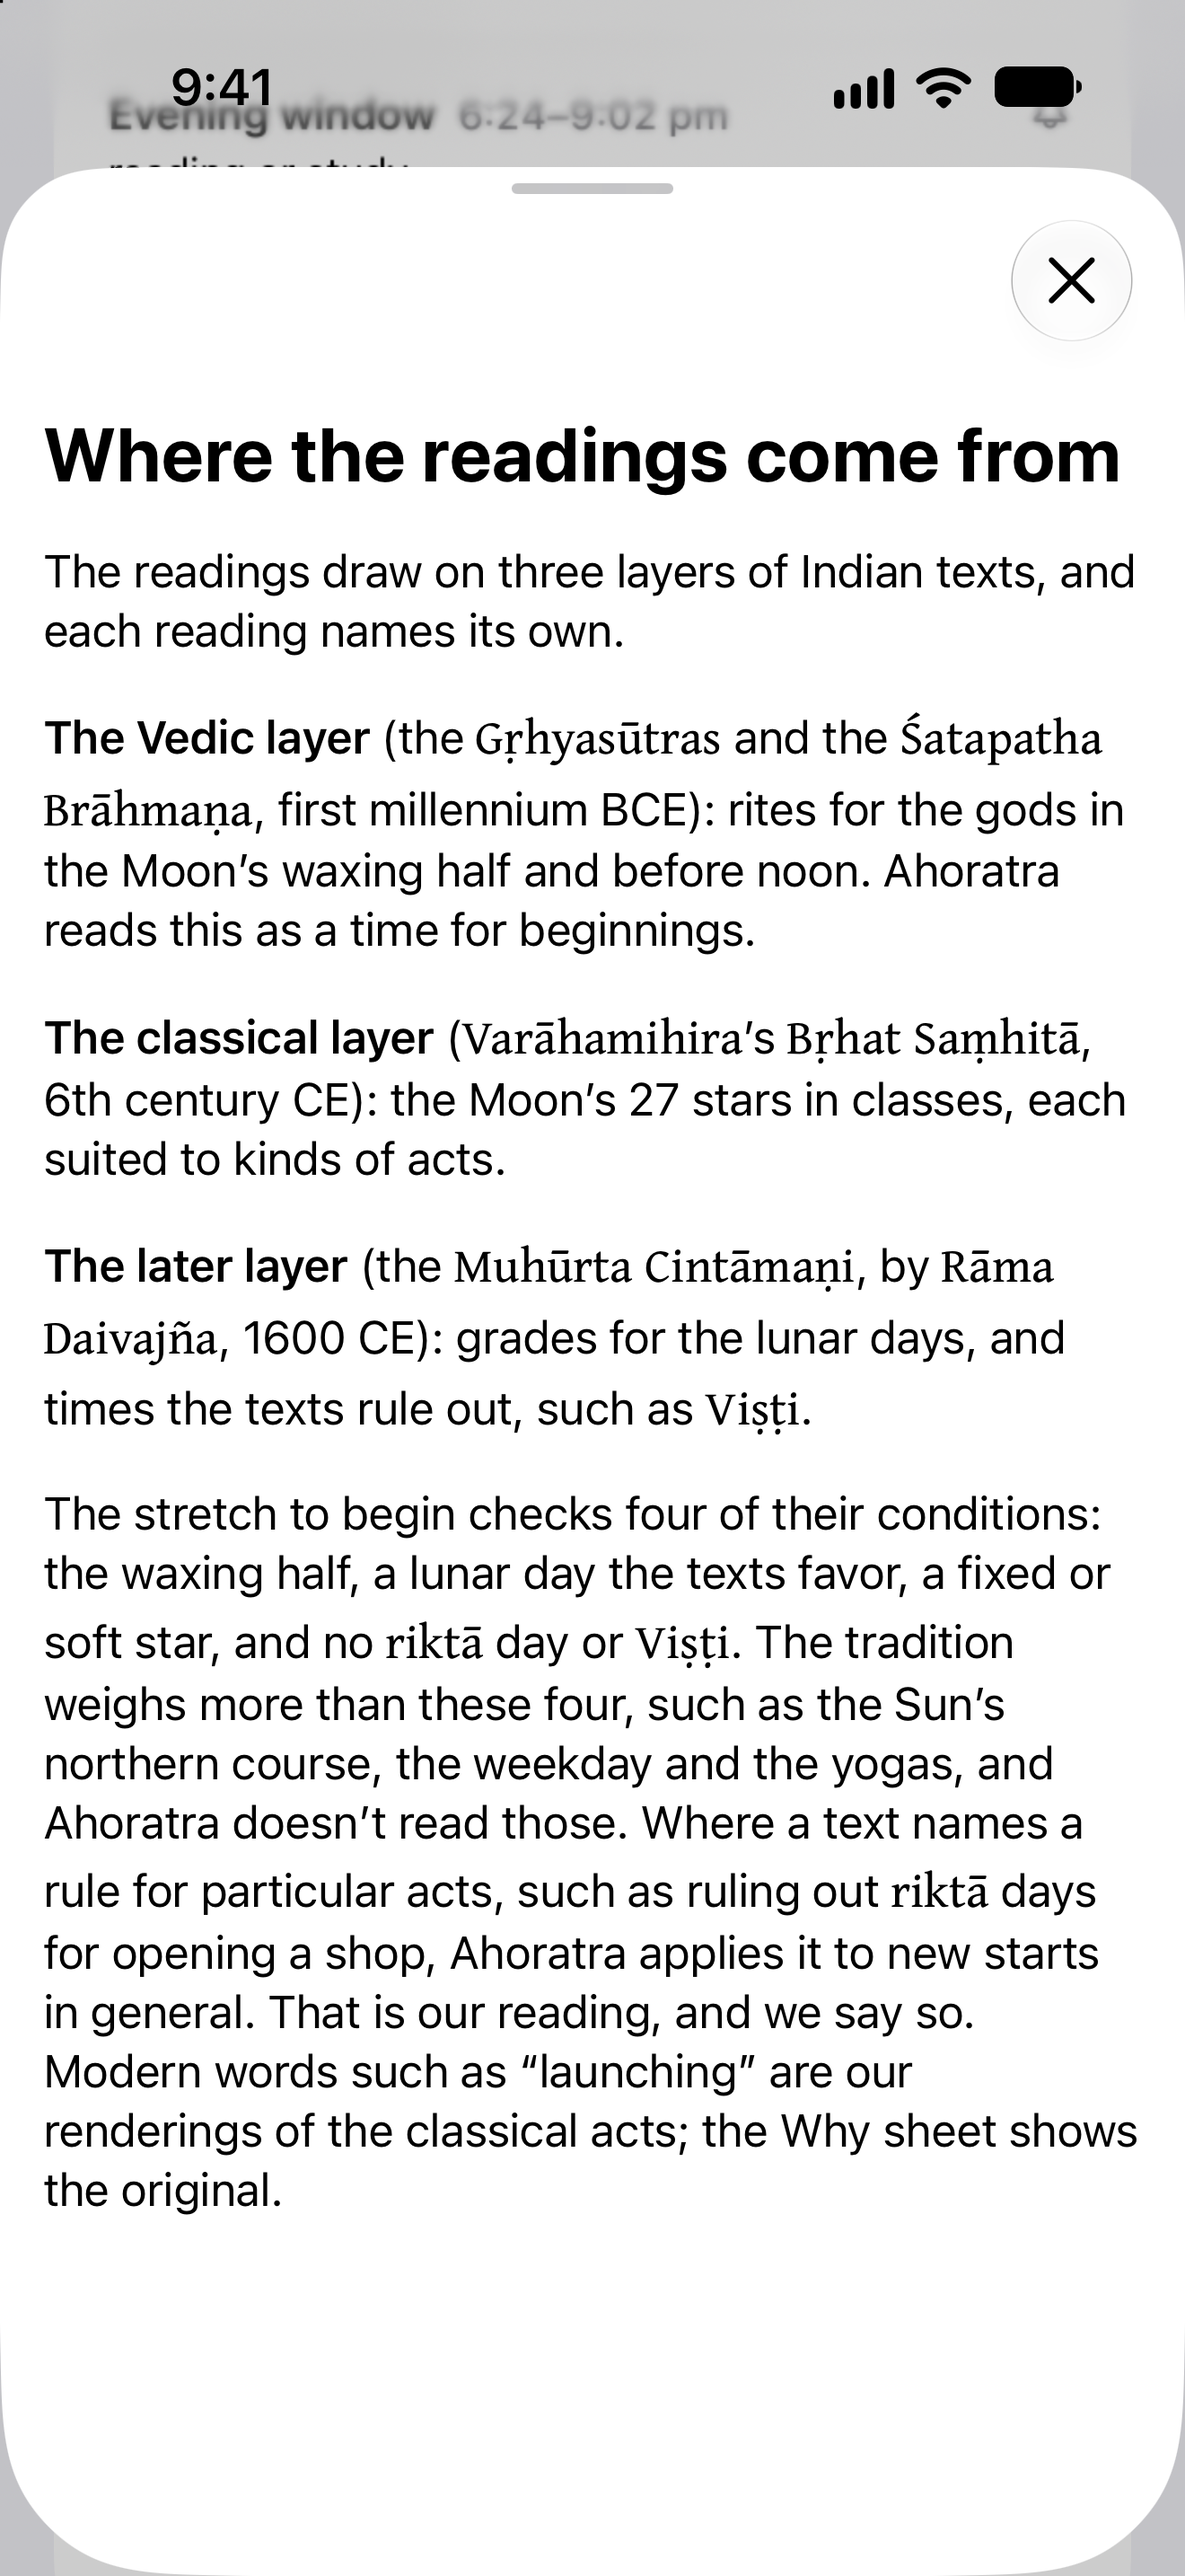
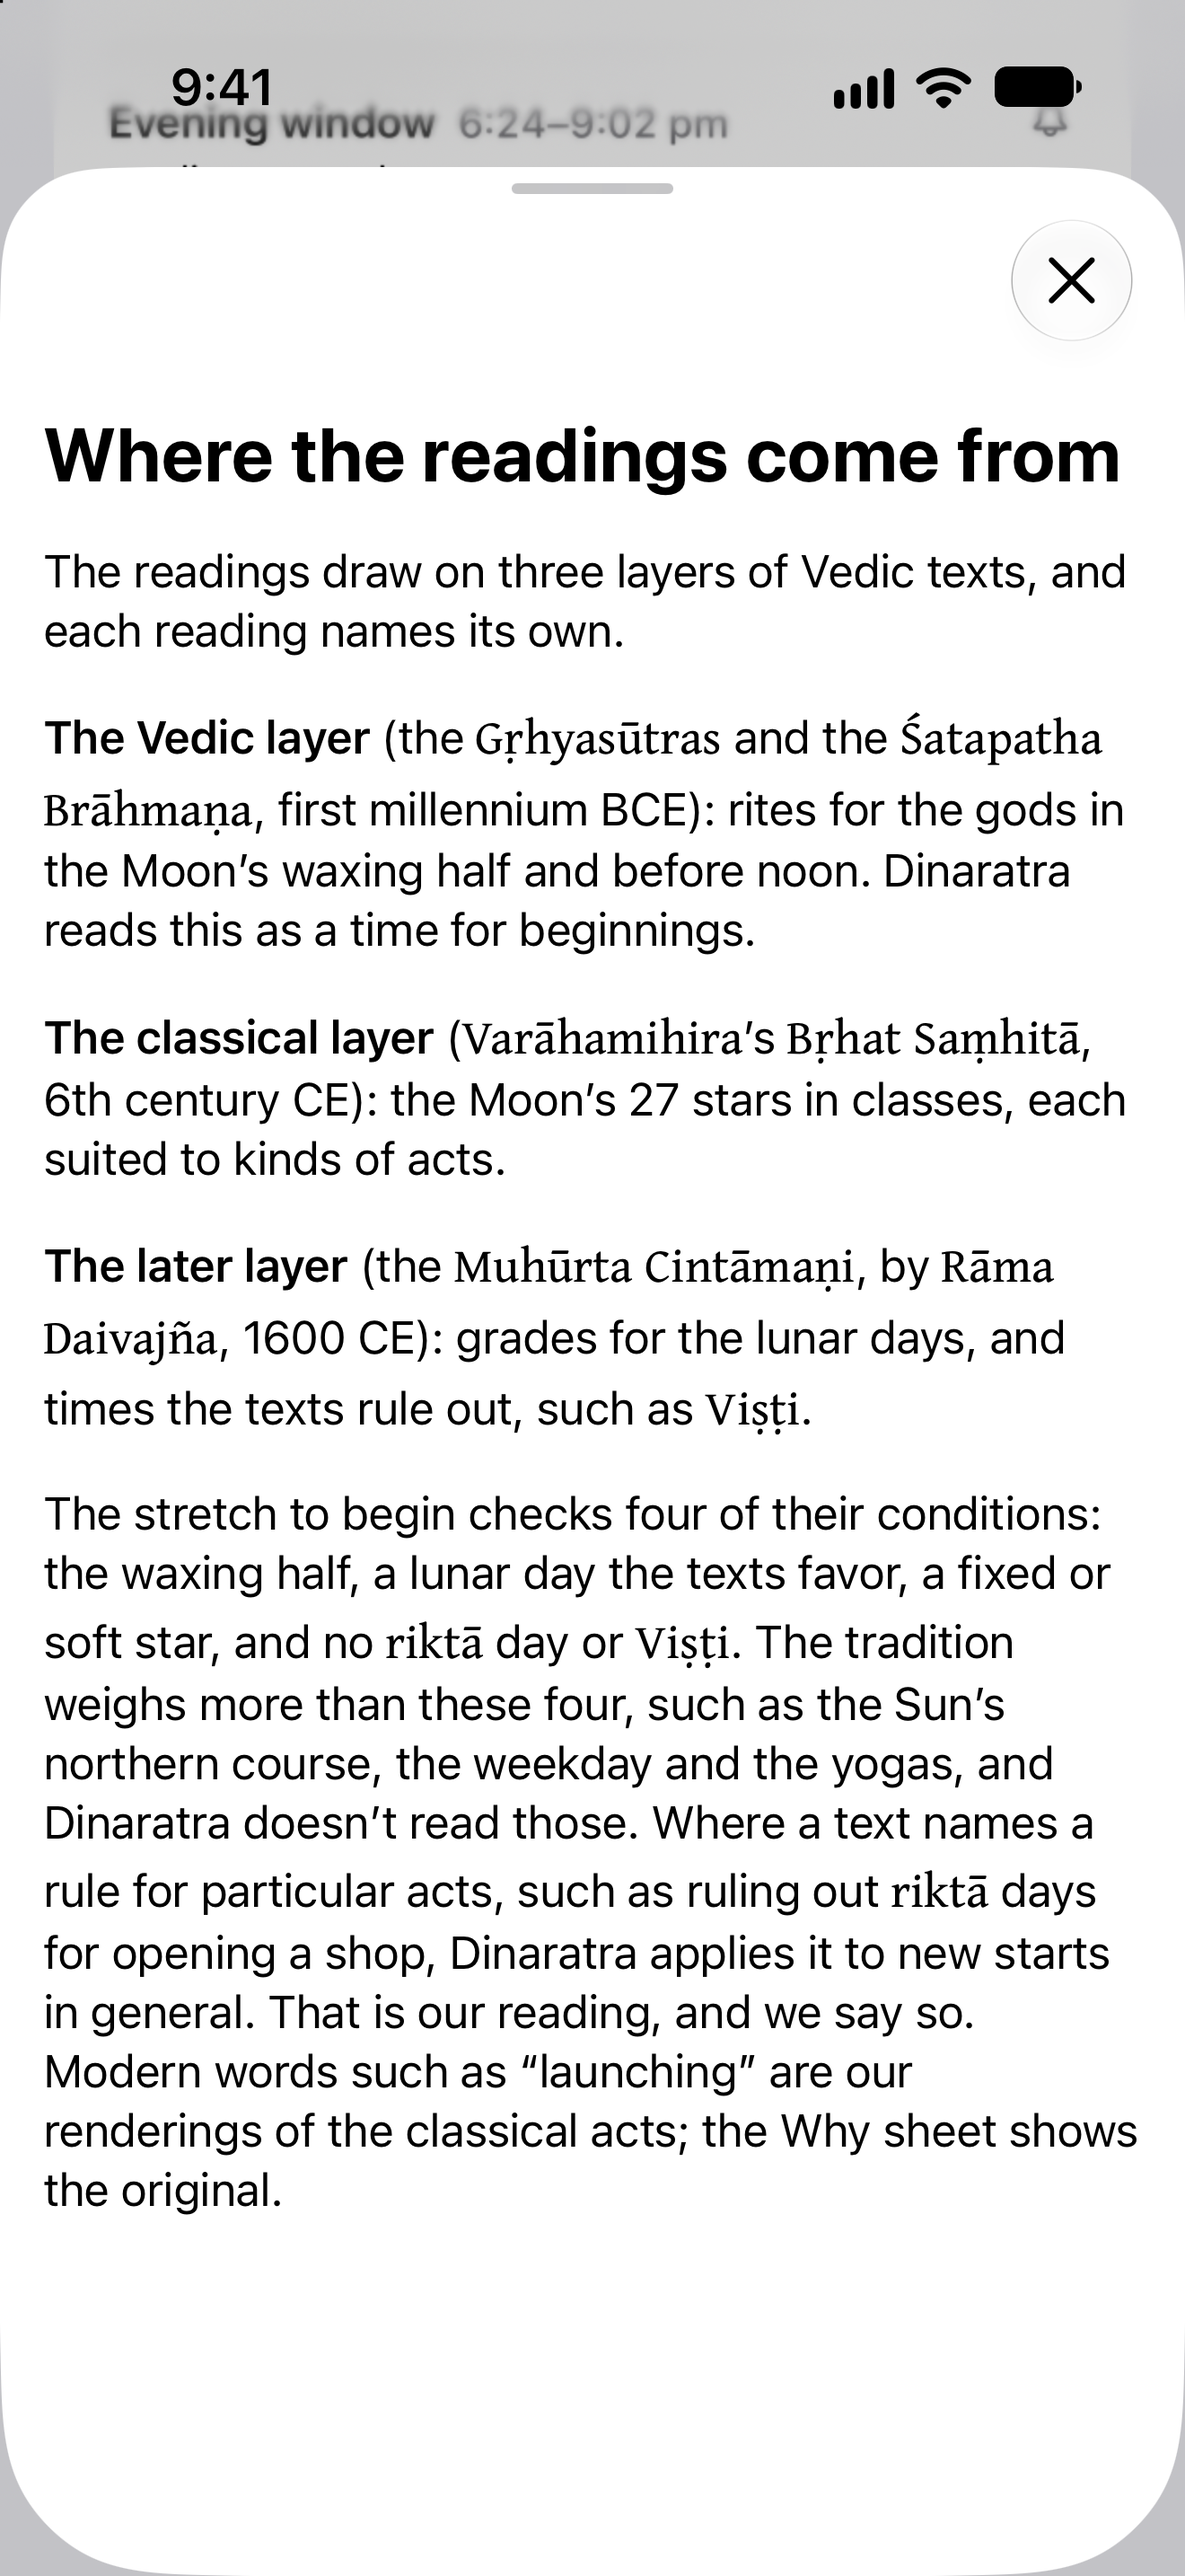
cpp-classical.png retaken from 1.0.3 (1022): the app text says Dinaratra
The Builder's capture for spec 387 (milestone 264), the same screen as
1.0.1's; served as ?v=2.

diff --git a/index.html b/index.html
@@ -37,9 +37,9 @@
 -->
 <img src="/screens/shot-2.png" width="1320" height="2868" alt="Today scrolled to Your day, with plans placed in the parts of the day" loading="lazy" decoding="async"></figure></div></section><section class="feat flip" aria-labelledby="s5"><div class="wrap"><div class="feat-text"><h2 class="kicker" id="s5">THE CLASSICAL VEDIC READING, WITH ITS SOURCE</h2><p class="h">The classical Vedic reading</p><ul class="pts"><li>Each reading names its text: the Gṛhyasūtras, Varāhamihira’s Bṛhat Saṃhitā or the Muhūrta Cintāmaṇi</li><li>Learn shows what is calculated and what is traditional</li><li>Not a forecast: no birth chart and no predictions about you</li></ul></div><figure class="shot ">
 <!-- SHOT:cpp-classical · custom page “The classical Vedic reading” · M-101i capture, 1320 × 2868 PNG, no device frame. Replace the slot <div> with:
-     <img src="/screens/cpp-classical.png" width="1320" height="2868" alt="[alt text · copy: owner]" loading="lazy" decoding="async">
+     <img src="/screens/cpp-classical.png?v=2" width="1320" height="2868" alt="[alt text · copy: owner]" loading="lazy" decoding="async">
 -->
-<img src="/screens/cpp-classical.png" width="1320" height="2868" alt="Learn: where the readings come from, with their classical sources" loading="lazy" decoding="async"></figure></div></section><section class="feat" aria-labelledby="s6"><div class="wrap"><div class="feat-text"><h2 class="kicker" id="s6">DAYS YOU KEEP, IF YOU CHOOSE</h2><p class="h">Days you keep</p><ul class="pts"><li>Fasting days such as Ekadashi, festivals such as Diwali and Holi, the start of each solar month, and remembrance days</li><li>Computed for where you are, with the date in India when it differs</li><li>For weddings and family ceremonies, your family’s priest or panchang decides</li></ul></div><figure class="shot ">
+<img src="/screens/cpp-classical.png?v=2" width="1320" height="2868" alt="Learn: where the readings come from, with their classical sources" loading="lazy" decoding="async"></figure></div></section><section class="feat" aria-labelledby="s6"><div class="wrap"><div class="feat-text"><h2 class="kicker" id="s6">DAYS YOU KEEP, IF YOU CHOOSE</h2><p class="h">Days you keep</p><ul class="pts"><li>Fasting days such as Ekadashi, festivals such as Diwali and Holi, the start of each solar month, and remembrance days</li><li>Computed for where you are, with the date in India when it differs</li><li>For weddings and family ceremonies, your family’s priest or panchang decides</li></ul></div><figure class="shot ">
 <!-- SHOT:cpp-days-you-keep · custom page “Days you keep” · M-101i capture, 1320 × 2868 PNG, no device frame. Replace the slot <div> with:
      <img src="/screens/cpp-days-you-keep.png" width="1320" height="2868" alt="[alt text · copy: owner]" loading="lazy" decoding="async">
 -->
